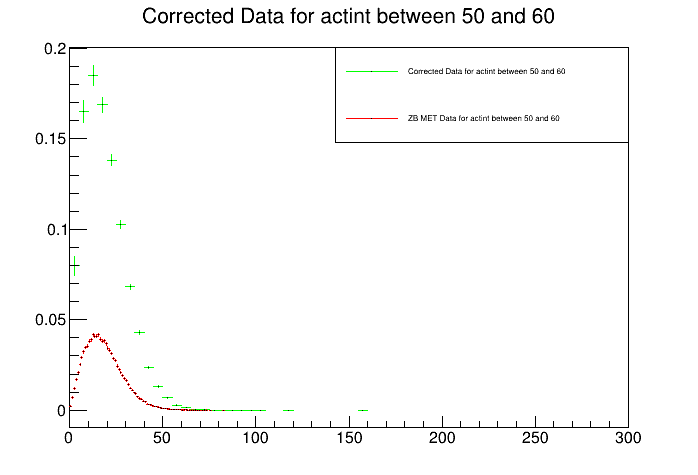
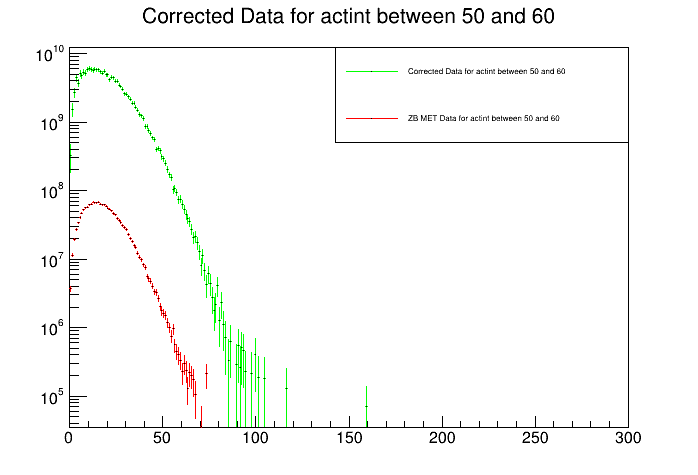
I found the bug. It turns out it was because my corrected MET histograms had a different bin width than that of the original ZB histograms, so the scale factor was off systematically

diff --git a/Mu_Analysis/PerformCorrection/CorrectingDistributions.C b/Mu_Analysis/PerformCorrection/CorrectingDistributions.C
@@ -41,6 +41,7 @@ void CorrectingDistributions::Begin(TTree * /*tree*/)
     met_dir->GetObject("metmu50thru60",zbMETMuBin50thru60);
     met_dir->GetObject("metmu60thru70",zbMETMuBin60thru70);
 
+    
     MET_Correctedmu0thru10 = new TH1F("correctedmetmu0thru10","Corrected Data for actint between 0 and 10", nbins , gevLow , gevHigh );
     MET_Correctedmu10thru20 = new TH1F("correctedmetmu10thru20","Corrected Data for actint between 10 and 20", nbins , gevLow , gevHigh );
     MET_Correctedmu20thru30 = new TH1F("correctedmetmu20thru30","Corrected Data for actint between 20 and 30", nbins , gevLow , gevHigh );
@@ -95,21 +96,43 @@ Double_t CorrectingDistributions::ComputeWeight(TF1* fitFunc)//{{{
 void CorrectingDistributions::SlaveTerminate(){}
 void CorrectingDistributions::Terminate(){
 
+
+    TCanvas* check_canvas = new TCanvas("check","checking shapes of two distributinos");
+    std::cout << zbMETMuBin40thru50->Integral() << std::endl;
+    std::cout << MET_Correctedmu40thru50->Integral() << std::endl;
+    zbMETMuBin40thru50->Draw();
+    MET_Correctedmu40thru50->Draw("SAME");
+    TLegend* check_legend = new TLegend();
+    check_legend->AddEntry( zbMETMuBin40thru50 );
+    check_legend->AddEntry( MET_Correctedmu40thru50 );
+    check_legend->Draw("SAME");
+    check_canvas->SetLogy();
+
 	// DETERMINE Relative Normalization Distributions
-    // These should be the same for all of the histograms, because the ticks should be the same 
-    Float_t normalization_thresh = 10.0;
+    Float_t normalization_thresh = 40.0;
     Int_t thresh_bin = zbMETMuBin40thru50->GetBin( normalization_thresh );
-
+    printf("Thresh bin: %d\n" , thresh_bin );
     Double_t initial_bin_content = zbMETMuBin40thru50->GetBinContent( thresh_bin );
-    Double_t initial_bin_content_corrected = MET_Correctedmu40thru50->GetBinContent( thresh_bin );
-    Double_t scale_factor = initial_bin_content / initial_bin_content_corrected;
-
     std::cout << "ZB MET Bin Content: " << initial_bin_content << std::endl;
+    Double_t initial_bin_content_corrected = MET_Correctedmu40thru50->GetBinContent( thresh_bin );
     std::cout << "Corrected MET Bin Content: " << initial_bin_content_corrected << std::endl;
+    Double_t scale_factor = initial_bin_content / initial_bin_content_corrected;
     std::cout << "Scale Factor: " << scale_factor << std::endl;
+    // These should be the same for all of the histograms, because the ticks should be the same 
+    zbMETMuBin40thru50->SetNormFactor(1.);
+    MET_Correctedmu40thru50->SetNormFactor(1.);
 
     MET_Correctedmu40thru50->Scale( scale_factor );
+    Double_t scaled_bin_content_corrected = MET_Correctedmu40thru50->GetBinContent( thresh_bin ) ;
     std::cout << "Corrected MET Bin Content After Scaling: " << MET_Correctedmu40thru50->GetBinContent( thresh_bin ) << std::endl;
+
+
+    if ( abs( scaled_bin_content_corrected - initial_bin_content ) < 5 ){
+        printf("Bin content of corrected matches initial zb after relative normalization: True\n");
+    }
+
+
+
     //}}}
 
     // plot corrected distributions {{{

diff --git a/Mu_Analysis/PerformCorrection/CorrectingDistributions.h b/Mu_Analysis/PerformCorrection/CorrectingDistributions.h
@@ -76,7 +76,7 @@ public :
     TEfficiency* efficiencyObjectMu50thru60 = 0;
     TEfficiency* efficiencyObjectMu60thru70 = 0;
 
-    Float_t binWidth = 5.0;
+    Float_t binWidth = 1.0;
     Float_t gevLow = 0.0;
     Float_t gevHigh = 300.0;
     Int_t nbins = (gevHigh-gevLow)/binWidth;
